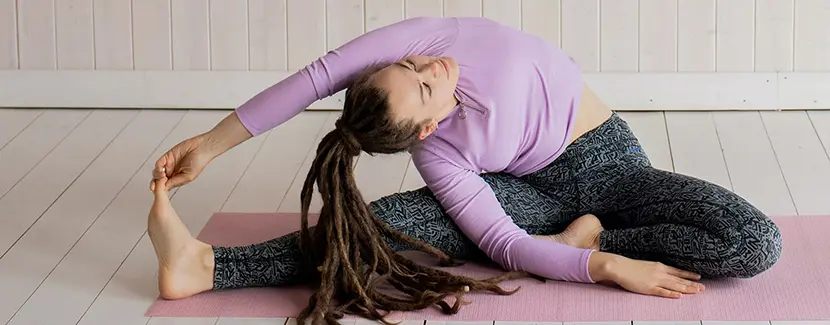
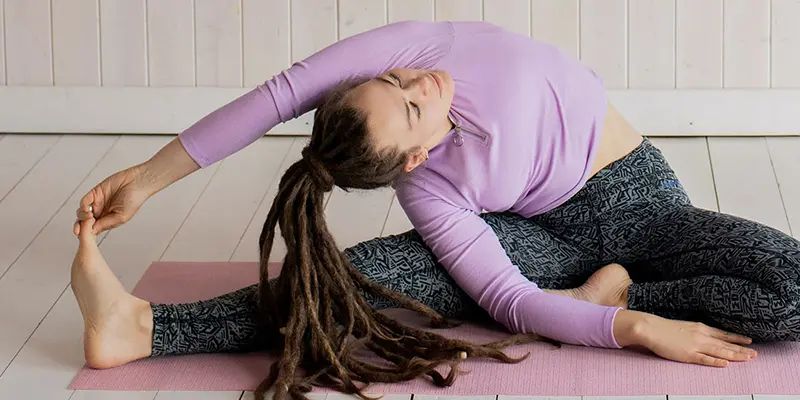
Replace hero-smallest.webp with new size and style image and Welcome text for smallest screens

diff --git a/assets/css/style.css b/assets/css/style.css
@@ -460,25 +460,25 @@ h2 {
     }
 
     #hero-section {
-        height: 325px;
+        height: 400px;
         width: 100%;
         overflow: hidden;
         position: relative;
     }
 
     #hero {
-        height: 325px;
+        height: 400px;
         background: url('../images/hero-image-smallest.webp') no-repeat center center;
     }
 
     #welcome-text {
-        font-size: 105%;
+        font-size: 100%;
         text-align: center;
         height: 150px;
         width: 100%;
         bottom: 35px;
         left: 0px;
-        padding: 0px;
+        padding: 0.5em;
     }
 
     .general-grid {
